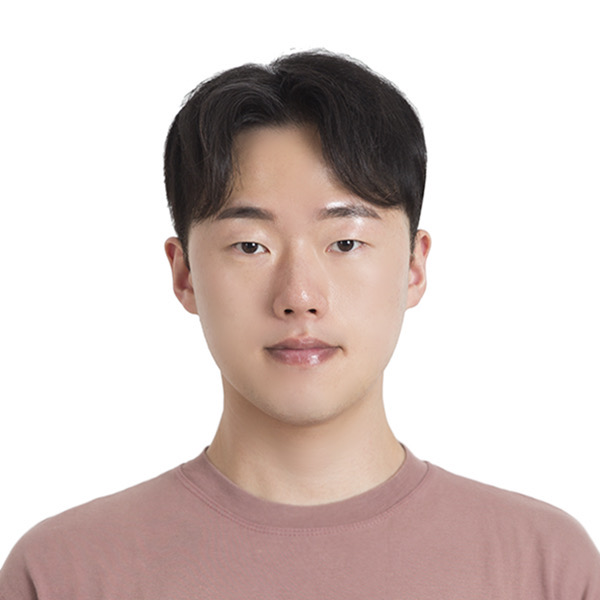
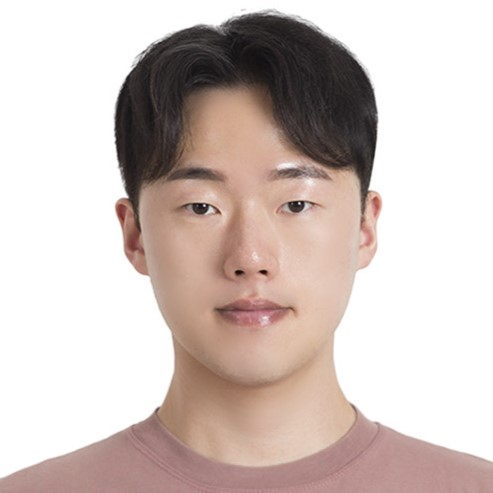
profile picture and url name changed

Changed region(s): [[0.0, 0.0, 1.0, 1.0], [0.5477, 0.4868, 0.5781, 0.5172]]

diff --git a/index.md b/index.md
@@ -19,7 +19,7 @@ Lorem ipsum dolor sit amet, consectetur adipiscing elit. Aliquam finibus ipsum a
 1. F.Bar, J.Doe: Effects of having a placeholder of a name
 2. S.Holmes, J.Watson: Consequences of living with a sociopath in London
 
-## Typography
+## Projects
 
 This is a [link](http://google.com). Something *italics* and something **bold**.
 
